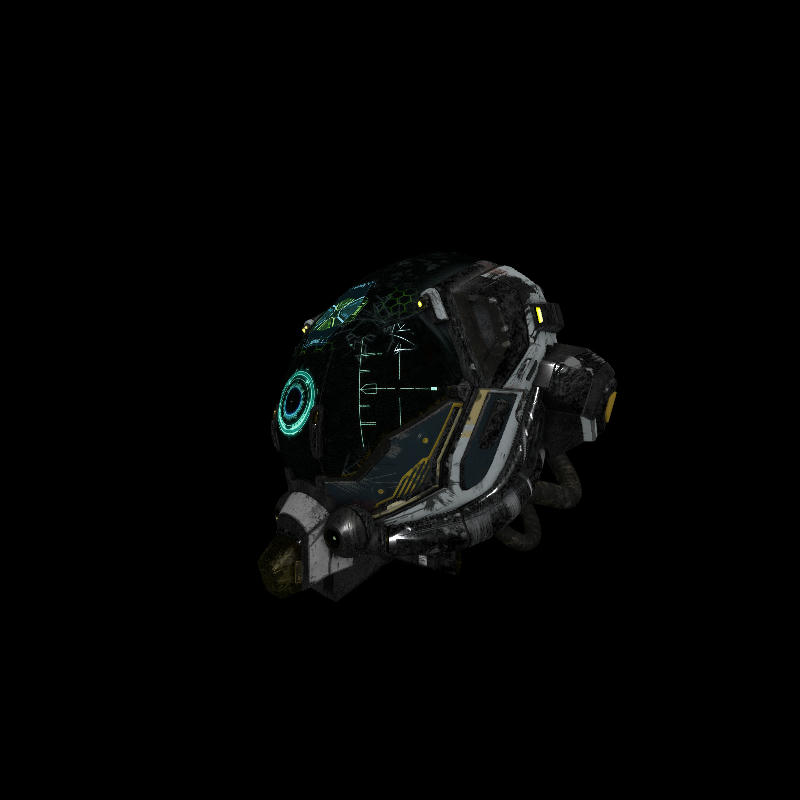
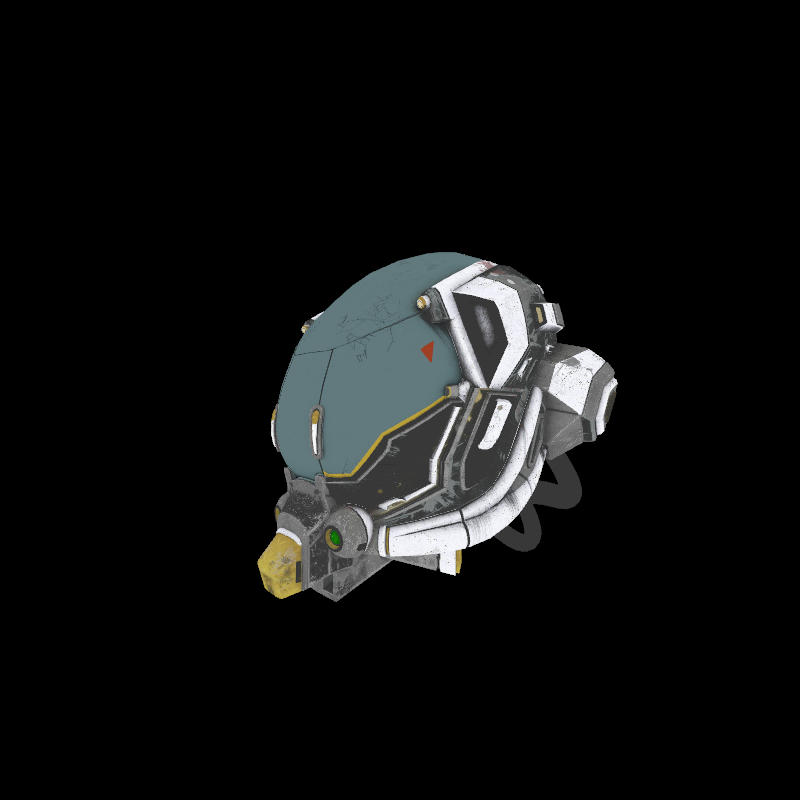
Fix renderer bugs

Changed region(s): [[0.3125, 0.3125, 0.7812, 0.75]]

diff --git a/hotham/src/resources/render_context.rs b/hotham/src/resources/render_context.rs
@@ -70,7 +70,7 @@ impl RenderContext {
         };
 
         let descriptors = unsafe { Descriptors::new(vulkan_context) };
-        let resources = unsafe { Resources::new(vulkan_context, &descriptors) };
+        let mut resources = unsafe { Resources::new(vulkan_context, &descriptors) };
 
         // Pipeline, render pass
         let render_pass = create_render_pass(vulkan_context)?;
@@ -105,6 +105,10 @@ impl RenderContext {
             &depth_image,
             &color_image,
         )?;
+        let scene_data = Default::default();
+        unsafe {
+            resources.scene_data_buffer.push(&scene_data);
+        }
 
         Ok(Self {
             frames,
@@ -116,9 +120,9 @@ impl RenderContext {
             depth_image,
             color_image,
             render_area,
-            scene_data: Default::default(),
             cameras: vec![Default::default(); 2],
             views: Vec::new(),
+            scene_data,
             descriptors,
             resources,
         })
@@ -156,7 +160,6 @@ impl RenderContext {
         )
     }
 
-    // TODO: Make this update the scene data rather than creating a new one
     pub(crate) fn update_scene_data(&mut self, views: &[xr::View]) -> Result<()> {
         self.views = views.to_owned();
 
@@ -182,16 +185,11 @@ impl RenderContext {
 
         let camera_position = [self.cameras[0].position(), self.cameras[1].position()];
 
-        self.scene_data = SceneData {
-            view_projection,
-            camera_position,
-            ..Default::default()
-        };
-
         unsafe {
-            self.resources
-                .scene_data_buffer
-                .overwrite(slice_from_ref(&self.scene_data));
+            let scene_data = &mut self.resources.scene_data_buffer.as_slice_mut()[0];
+            scene_data.camera_position = camera_position;
+            scene_data.view_projection = view_projection;
+            scene_data.debug_data = self.scene_data.debug_data;
         }
 
         Ok(())

diff --git a/hotham/src/systems/rendering.rs b/hotham/src/systems/rendering.rs
@@ -199,7 +199,7 @@ mod tests {
         let image_from_vulkan = DynamicImage::ImageRgba8(
             RgbaImage::from_raw(resolution.width, resolution.height, image_bytes).unwrap(),
         );
-        let output_path = format!("../test_assets/render_{}_known_good.jpg", name);
+        let output_path = format!("../test_assets/render_{}.jpg", name);
         {
             let output_path = std::path::Path::new(&output_path);
             let mut file = std::fs::File::create(output_path).unwrap();
@@ -249,8 +249,8 @@ mod tests {
             },
         };
         let views = vec![view.clone(), view];
-        render_context.update_scene_data(&views).unwrap();
         render_context.scene_data.debug_data.y = debug_view_equation;
+        render_context.update_scene_data(&views).unwrap();
         update_transform_matrix_system(&mut Default::default(), world);
         update_parent_transform_matrix_system(
             &mut Default::default(),
